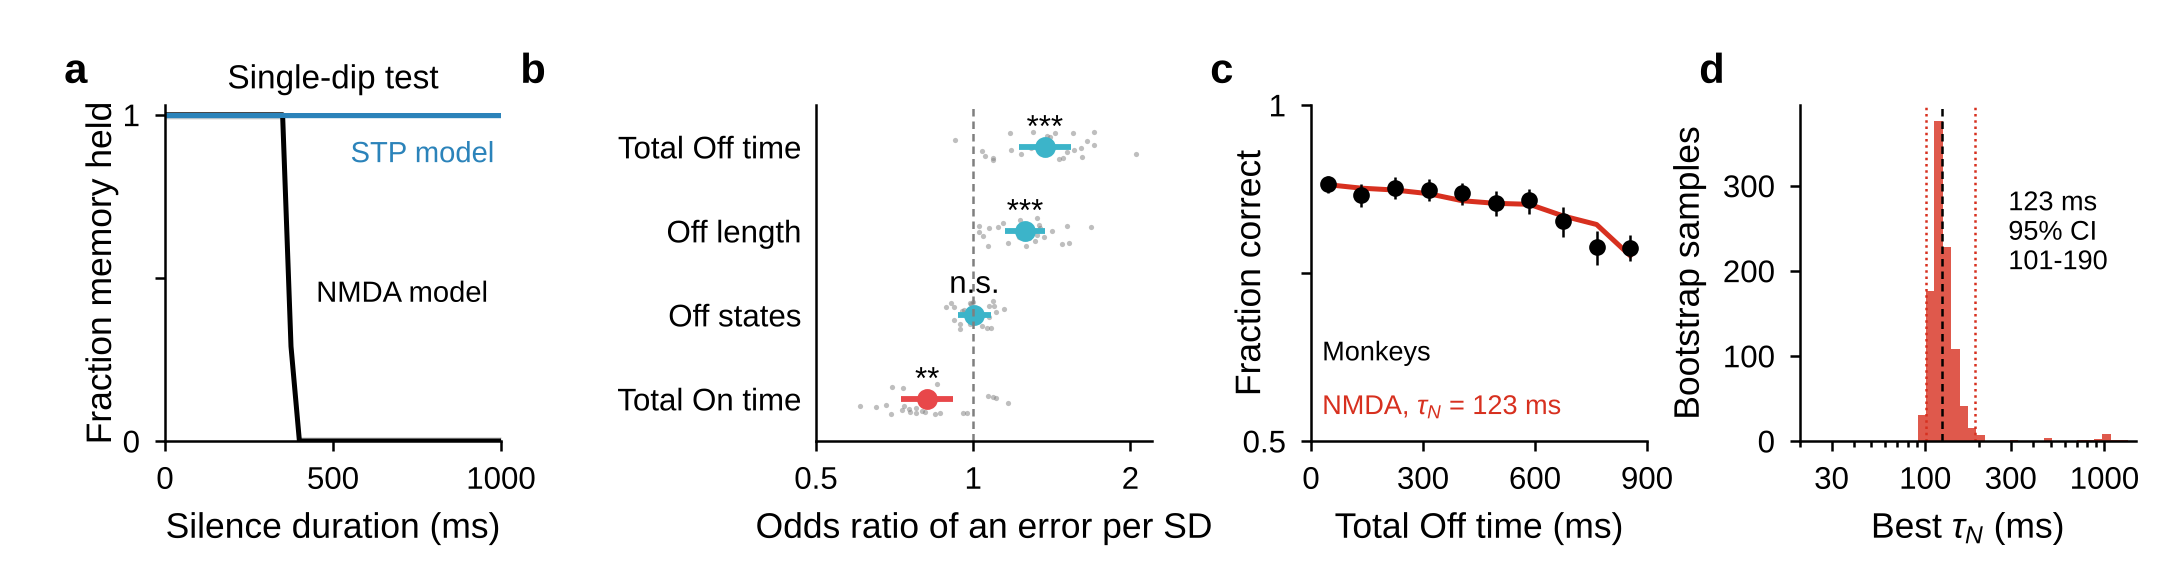
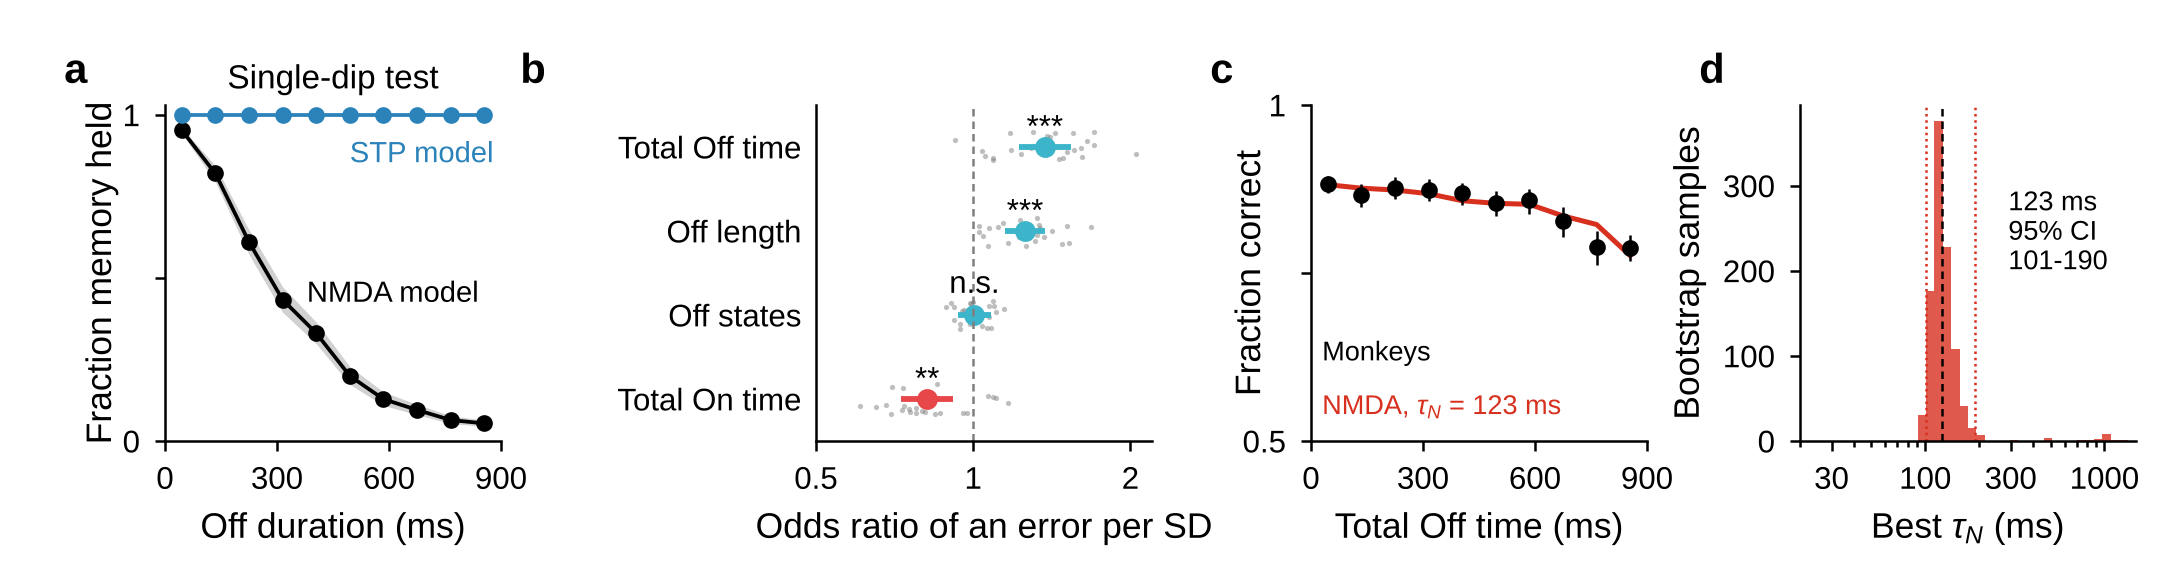
paper: Figure 3a back to the read-out single-dip curves, x axis 'Off duration'
Claude-Session: https://claude.ai/code/session_01Muxo6fVhqMZ2e3pmGJiRgd

diff --git a/paper/scripts/fig3_behaviour_tau.py b/paper/scripts/fig3_behaviour_tau.py
@@ -1,9 +1,9 @@
 """Figure 3: single-dip test of the two models, Off states and errors in the monkeys, and the NMDA time constant
 fitted to their performance.
 
-a, single-dip test: fraction of trials with the memory held against the duration of the single silence (one dip of
-   the common input per trial, 0-1 s in 25 ms steps, 300 trials per duration), NMDA model (black) and STP model
-   (blue), 95% Wilson intervals.
+a, single-dip test (one dip of 0-1 s per trial, 12,300 trials per model), read out as the data: fraction of trials
+   with the memory held against the Off duration in the delay, NMDA model (black) and STP model (blue),
+   95% Wilson intervals.
 b, odds ratio of an error per within-session SD of each On/Off statistic (logistic GLMM fixed effect, 95% CI),
    with each session's weight as grey dots; stars from the likelihood-ratio p.
 c, fraction correct against Off time, all 15,468 trials pooled (95% Wilson intervals), and the NMDA model with the
@@ -75,21 +75,23 @@ FW, FH, SIDE, BOT = 7.2, 1.95, 1.12, 0.48          # inches; square panels of SI
 fig = plt.figure(figsize=(FW, FH))
 sx, a, bx, dx = (fig.add_axes([x0 / FW, BOT / FH, SIDE / FW, SIDE / FH]) for x0 in (0.55, 2.72, 4.37, 6.0))
 
-# a: single-dip test, memory held against the duration of the silence, both models
+# a: single-dip test, read out as the data, both models
+cen0 = 900 * (EDGES[:-1] + np.minimum(EDGES[1:], 1)) / 2
 for v, name, col in (('nmda', 'NMDA model', INK), ('fac', 'STP model', C_STP)):
     dd = np.load(os.path.join('figures', 'off_vs_memory', v, 'single_dip_readout_trials.npz'))
-    L, held = dd['dip_length_ms'], dd['memory_held'].astype(bool)
-    u = np.unique(L)
-    kk = np.array([held[L == x].sum() for x in u]); nn = np.array([(L == x).sum() for x in u])
+    fr = np.round(dd['off_time_s'] / 0.01) / 91
+    held = dd['memory_held'].astype(bool)
+    q = np.clip(np.digitize(fr, EDGES) - 1, 0, NB - 1)
+    kk = np.bincount(q, weights=held, minlength=NB); nn = np.bincount(q, minlength=NB)
     lo, hi = wilson(kk, nn)
-    sx.fill_between(u, lo, hi, color=col, alpha=0.18, lw=0)
-    sx.plot(u, kk / nn, '-', color=col, lw=1.2)
-sx.set_xlim(0, 1000); sx.set_xticks([0, 500, 1000]); sx.set_ylim(0, 1.03)
+    sx.fill_between(cen0, lo, hi, color=col, alpha=0.18, lw=0)
+    sx.plot(cen0, kk / nn, 'o-', color=col, ms=3)
+sx.set_xlim(0, 900); sx.set_xticks([0, 300, 600, 900]); sx.set_ylim(0, 1.03)
 sx.set_yticks([0, 0.5, 1], ['0', '', '1']); sx.yaxis.labelpad = 1
-sx.set_xlabel('Silence duration (ms)'); sx.set_ylabel('Fraction memory held')
+sx.set_xlabel('Off duration (ms)'); sx.set_ylabel('Fraction memory held')
 sx.set_title('Single-dip test', fontsize=8, pad=4)
-sx.text(980, 0.92, 'STP model', color=C_STP, fontsize=7, ha='right', va='top')
-sx.text(450, 0.45, 'NMDA model', color=INK, fontsize=7, ha='left', va='center')
+sx.text(880, 0.92, 'STP model', color=C_STP, fontsize=7, ha='right', va='top')
+sx.text(380, 0.45, 'NMDA model', color=INK, fontsize=7, ha='left', va='center')
 letter(sx, 'a')
 
 # b: odds ratio of an error per SD of each statistic
